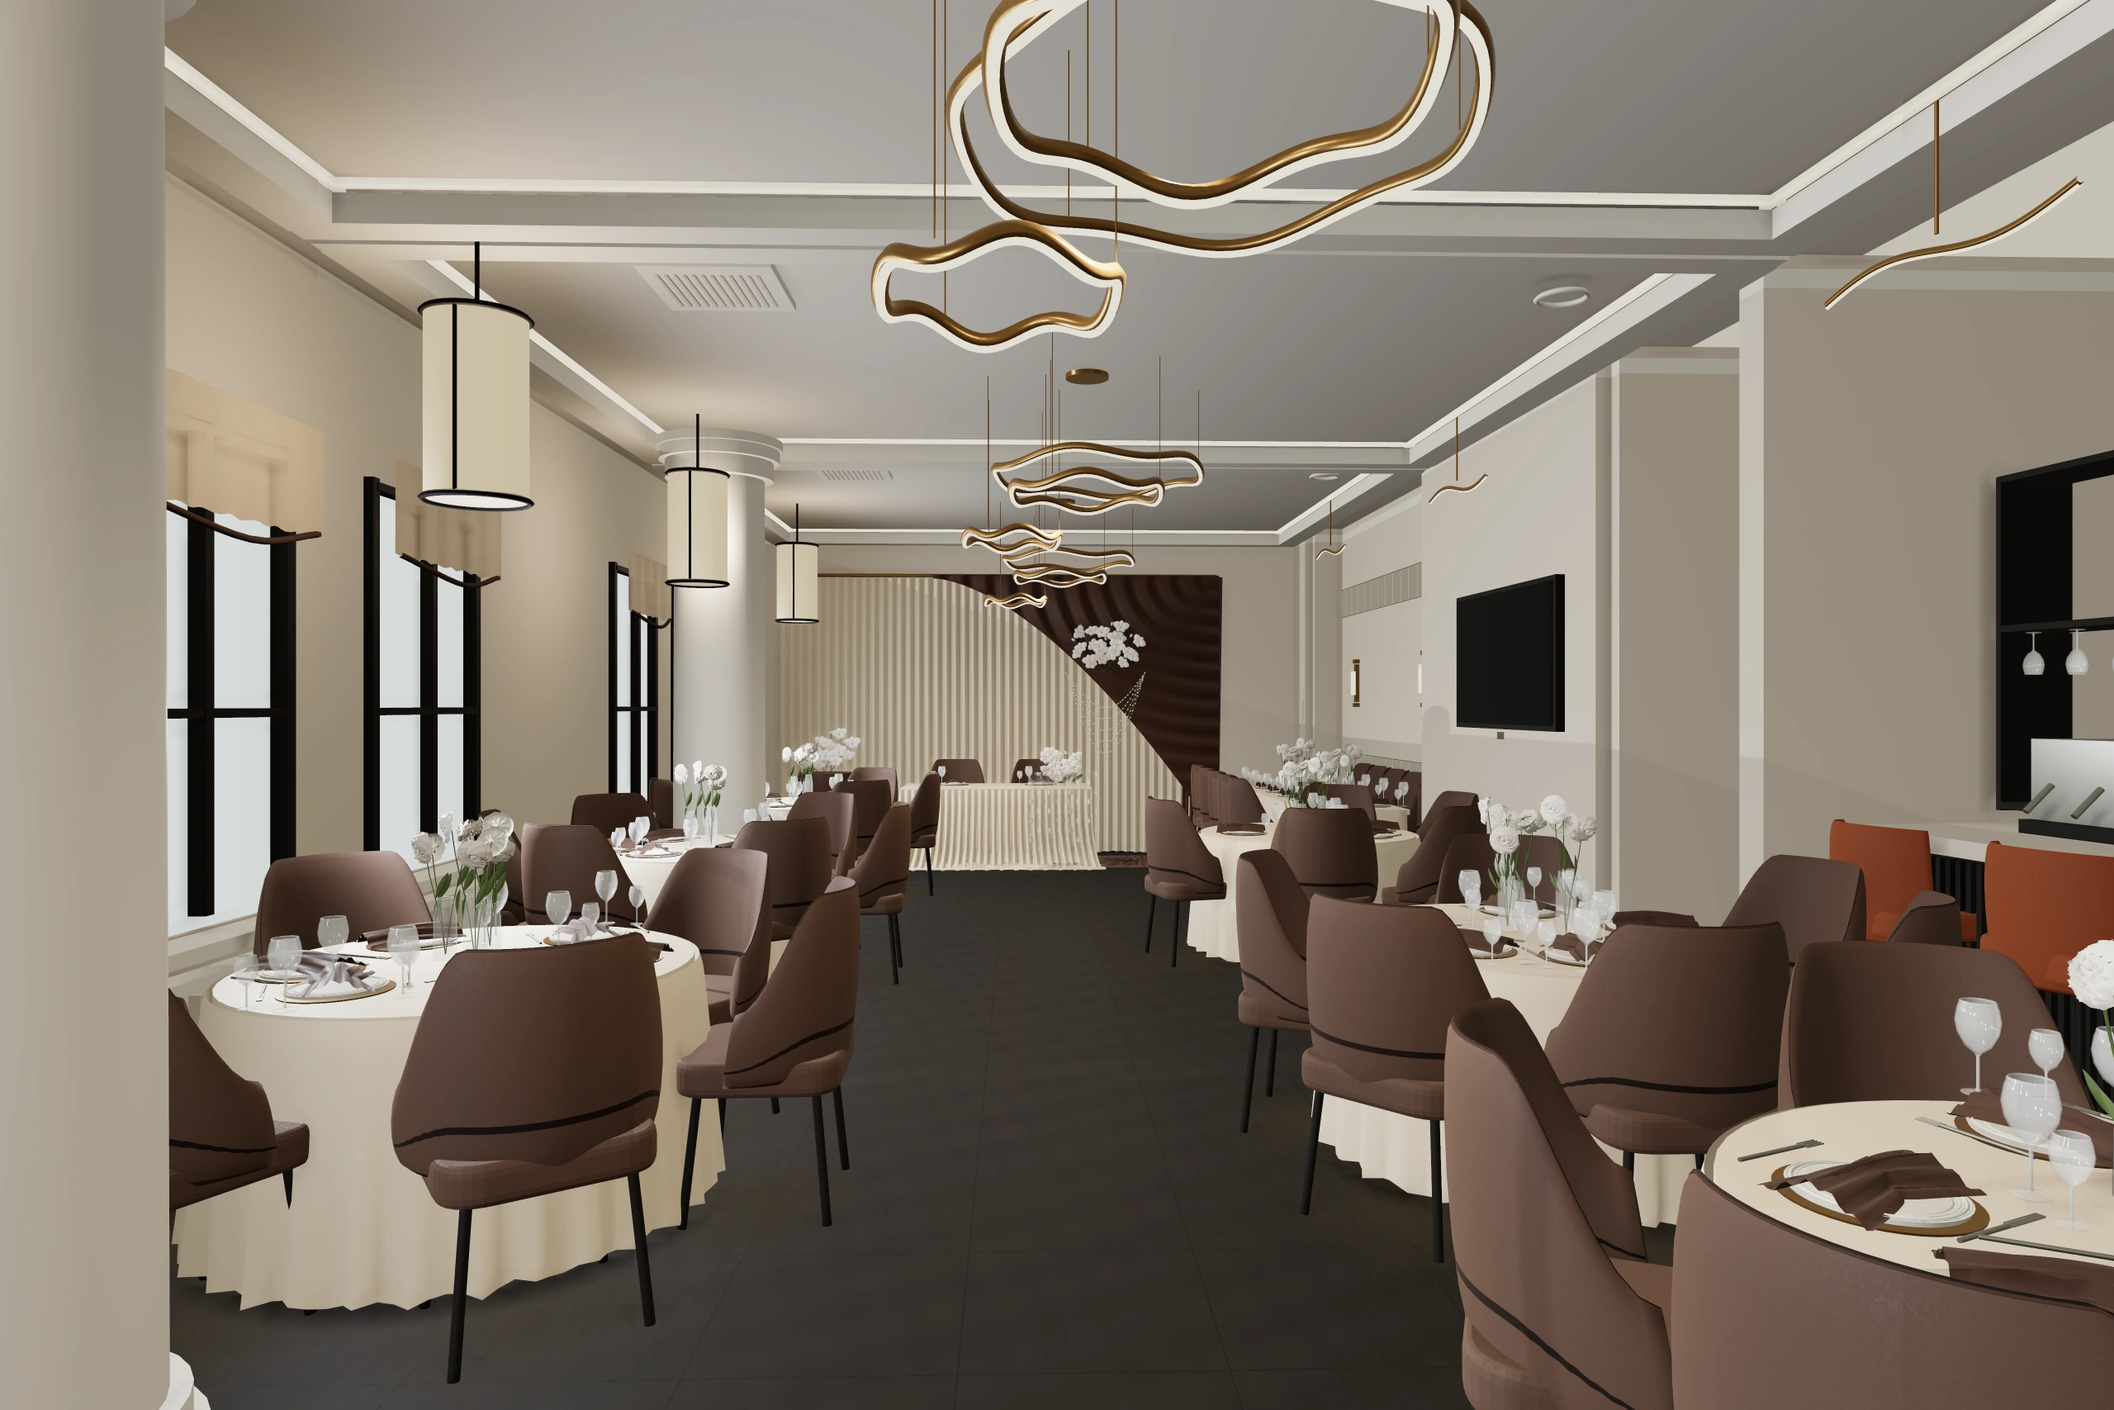
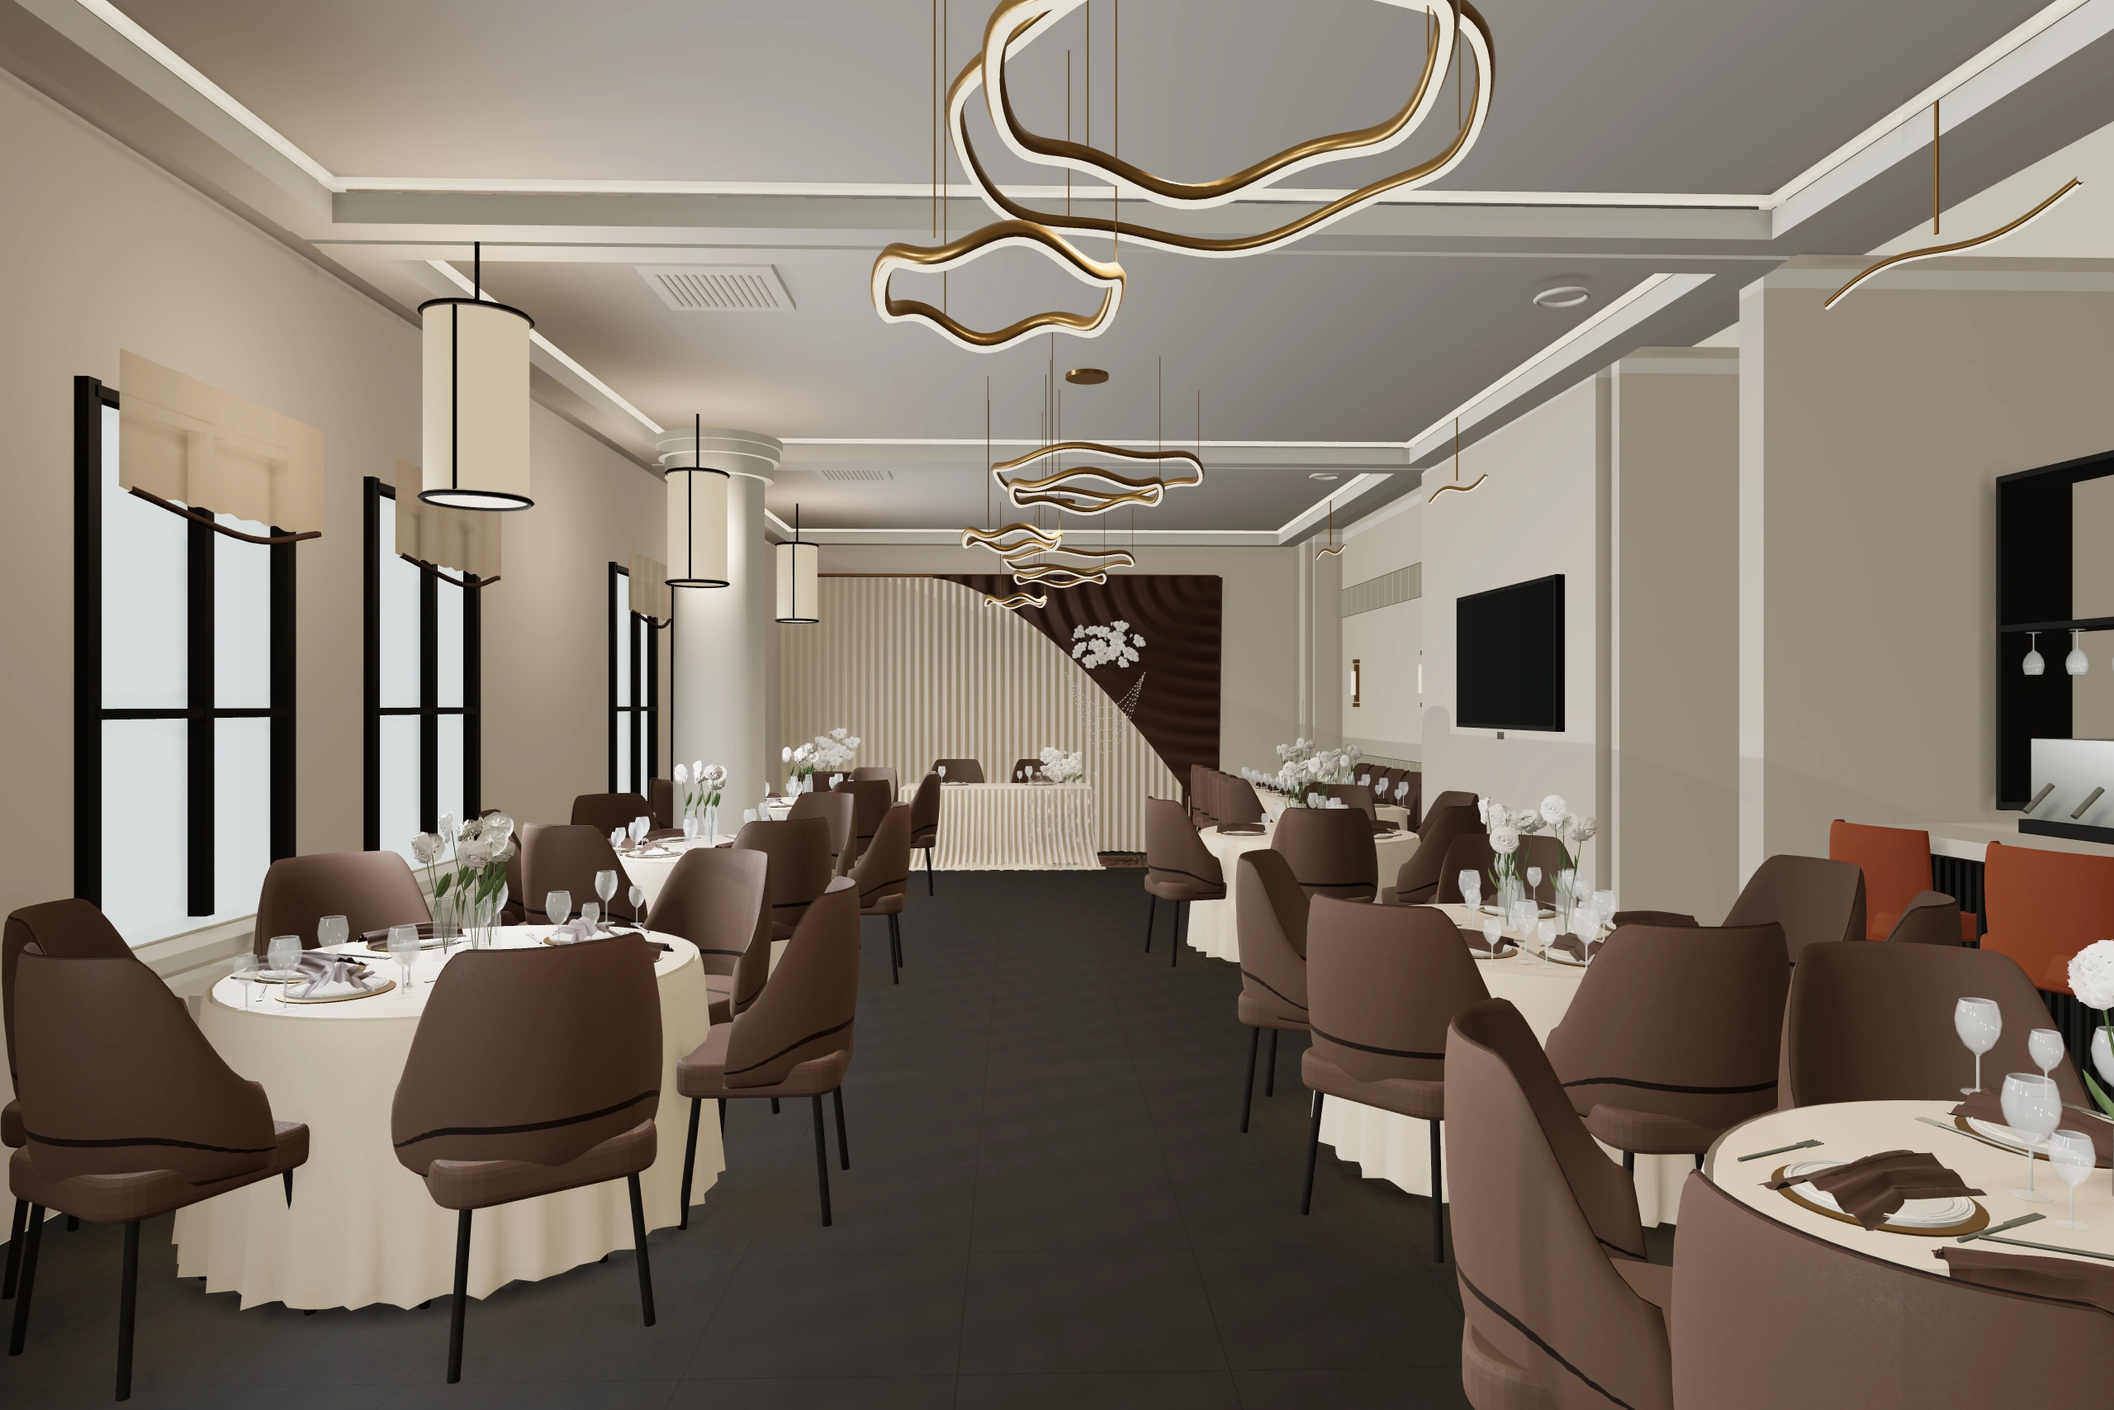
Remove the near window-side column and its collision and plan marker

Changed region(s): [[0.0, 0.0, 0.125, 1.0]]

diff --git a/index.html b/index.html
@@ -11,7 +11,7 @@
  <title>Ариадна · прогулка по залу</title>
  <link rel="icon" type="image/svg+xml" href="./assets/favicon.svg">
  <link rel="preload" href="./assets/manrope.ttf" as="font" type="font/ttf" crossorigin>
- <link rel="stylesheet" href="./styles.css?v=20261116-4">
+ <link rel="stylesheet" href="./styles.css?v=20261116-5">
 </head>
 <body>
  <a class="skip" href="#view-controls">К управлению залом</a>
@@ -52,7 +52,7 @@
  <dialog id="settings-dialog" aria-labelledby="settings-title"><div class="dialog-head"><h2 id="settings-title">Настройки просмотра</h2><button class="close-dialog icon-button" aria-label="Закрыть">×</button></div><div class="dialog-body settings-body"><label for="lighting">Освещение</label><select id="lighting"><option value="day">Дневной · окна и люстры</option><option value="windows">Только свет из окон</option><option value="lamps">Только люстры</option><option value="evening">Тёплый вечер</option></select><label for="quality">Качество</label><select id="quality"><option value="auto">Автоматически</option><option value="high">Подробно</option><option value="low">Экономно</option></select><label for="speed">Скорость ходьбы <output id="speed-value" for="speed">Обычная</output></label><input id="speed" type="range" min="0.6" max="1.8" step="0.2" value="1"><label for="sensitivity">Чувствительность обзора</label><input id="sensitivity" type="range" min="0.4" max="1.6" step="0.2" value="1"><label class="checkbox-row"><input type="checkbox" id="show-map" checked> Показывать миникарту</label><label class="checkbox-row"><input type="checkbox" id="show-decor" checked> Показывать свадебный декор</label><button id="reset-settings" class="secondary">Сбросить настройки</button></div></dialog>
  <dialog id="references-dialog" class="references-dialog" aria-labelledby="references-title"><div class="dialog-head"><div><h2 id="references-title">Референсы и варианты</h2><p class="small">Фотографии, схема и варианты 3D-модели</p></div><button class="close-dialog icon-button" aria-label="Закрыть">×</button></div><div class="dialog-body"><nav id="reference-tabs" class="reference-tabs" aria-label="Выбрать изображение"><button data-reference="decor" class="selected" aria-pressed="true">Ваш декор</button><button data-reference="rose" aria-pressed="false">Пыльная роза</button><button data-reference="olive" aria-pressed="false">Олива</button><button data-reference="hall" aria-pressed="false">Ваш зал</button><button data-reference="plan" aria-pressed="false">Схема</button><button data-reference="architecture" aria-pressed="false">Интерьер</button><button data-reference="windows" aria-pressed="false">Окна</button><button data-reference="bar" aria-pressed="false">Бар</button><button data-reference="stage" aria-pressed="false">Сцена</button></nav><figure class="reference-figure"><img id="reference-image" src="./assets/reference-decor.jpg" alt="Фотография свадебного президиума с молочной и шоколадной драпировкой"><figcaption id="reference-caption">Ваш референс свадебного оформления.</figcaption></figure><div class="reference-notes"><p>Форма помещения и расстановка мебели взяты из вашей схемы. Архитектура уточнена по фотографиям официального сайта. Высота, размеры и невидимые на снимках участки восстановлены приблизительно. Варианты показывают одну и ту же модель; меняются только цвета.</p><p><a href="https://ariadna63.ru/restaurant/" target="_blank" rel="noopener noreferrer">Сайт ресторана ↗</a><a href="https://2gis.ru/samara/firm/70000001094614105" target="_blank" rel="noopener noreferrer">Адрес в 2ГИС ↗</a></p></div></div></dialog>
  <dialog id="render-dialog" class="render-dialog" aria-labelledby="render-title"><div class="dialog-head"><div><h2 id="render-title">Рендер этого ракурса</h2><p class="small">Мягкие тени, отражения и сглаживание</p></div><button class="close-dialog icon-button" aria-label="Закрыть">×</button></div><div class="dialog-body"><div class="render-options"><label for="render-size">Разрешение<select id="render-size"><option value="1920">1920 пикселей</option><option value="2560" selected>2560 пикселей · 2K</option></select></label><label for="render-samples">Сглаживание<select id="render-samples"><option value="1">Стандартное</option><option value="2" selected>Повышенное · 2×</option></select></label></div><p class="small render-explanation">Кадр рассчитывается по небольшим фрагментам, чтобы экономить память. Повышенное сглаживание сохраняет тонкие края лепестков, ткани и бокалов. Во всех палитрах используется одна геометрия.</p><progress id="render-progress" max="1" value="0" hidden></progress><p id="render-status" class="small" role="status"></p><img id="render-preview" class="render-preview" alt="Готовый рендер выбранного ракурса зала" hidden><div class="render-actions"><button id="render-start" class="primary">Рассчитать рендер</button><button id="render-cancel" class="secondary" hidden>Остановить</button><a id="render-save" class="secondary" hidden download>Сохранить PNG</a><button id="capture-quick" class="secondary">Быстрый снимок</button></div></div></dialog>
- <script type="module" src="./app.js?v=20261116-4"></script>
+ <script type="module" src="./app.js?v=20261116-5"></script>
  <script nomodule>document.getElementById('failure').hidden=false;document.getElementById('welcome').hidden=true;</script>
 </body>
 </html>

diff --git a/app.js b/app.js
@@ -1,4 +1,4 @@
-import {boundary,tables,columns,longTable,headTable,views,SEATS,canStand} from './layout.js?v=20261116-4';
+import {boundary,tables,columns,longTable,headTable,views,SEATS,canStand} from './layout.js?v=20261116-5';
 
 const $=id=>document.getElementById(id),canvas=$('scene');
 const coarse=matchMedia('(pointer:coarse)').matches,reduced=matchMedia('(prefers-reduced-motion:reduce)').matches;
@@ -50,7 +50,7 @@ const references={
  olive:['preview-olive.webp','Та же 3D-модель: оливковые ткани и шоколадные акценты','Олива и шоколад. Кадр из модели: меняются только цвета, геометрия и декор совпадают с исходным вариантом.'],
 };
 function selectReference(name){
- const [file,alt,caption]=references[name];$('reference-image').src='./assets/'+file+'?v=20261116-4';$('reference-image').alt=alt;$('reference-caption').textContent=caption;
+ const [file,alt,caption]=references[name];$('reference-image').src='./assets/'+file+'?v=20261116-5';$('reference-image').alt=alt;$('reference-caption').textContent=caption;
  for(const b of document.querySelectorAll('[data-reference]')){const active=b.dataset.reference===name;b.classList.toggle('selected',active);b.setAttribute('aria-pressed',String(active));}
 }
 for(const button of document.querySelectorAll('[data-reference]'))button.addEventListener('click',()=>selectReference(button.dataset.reference));
@@ -276,7 +276,7 @@ function frame(time){
 
 async function boot(){
  try{
-  const module=await import('./scene.js?v=20261116-4');THREE=module.THREE;
+  const module=await import('./scene.js?v=20261116-5');THREE=module.THREE;
   renderer=new THREE.WebGLRenderer({canvas,antialias:!coarse,alpha:false,powerPreference:'high-performance',preserveDrawingBuffer:true});
   renderer.debug.onShaderError=(gl,program,vertex,fragment)=>{const report={program:gl.getProgramInfoLog(program),vertex:gl.getShaderInfoLog(vertex),fragment:gl.getShaderInfoLog(fragment)};console.error(JSON.stringify(report));throw new Error('Графический процессор не смог подготовить рендер');};
   renderer.outputColorSpace=THREE.SRGBColorSpace;renderer.toneMapping=THREE.ACESFilmicToneMapping;renderer.toneMappingExposure=1.12;
@@ -284,7 +284,7 @@ async function boot(){
   camera=new THREE.PerspectiveCamera(60,1,.045,70);planCamera=new THREE.OrthographicCamera(-10,10,6,-6,.1,80);planCamera.up.set(0,0,-1);planCamera.position.set(8.37,30,5);planCamera.lookAt(8.37,0,5);
   $('load-status').textContent='Расставляем мебель и свадебный декор';await new Promise(resolve=>requestAnimationFrame(resolve));
   $('load-status').textContent='Загружаем материалы тканей и камня';hall=await module.createHall(renderer);ready=true;setView('entrance');applyStyle(preferences.style,false);hall.setLighting(preferences.lighting);hall.setDecor(preferences.decor);updateQuality();
-  const graphics=await import('./render-still.js?v=20261116-4');renderStill=graphics.renderStill;presentation=graphics.createPresentation(renderer,hall.scene,camera);updateQuality();
+  const graphics=await import('./render-still.js?v=20261116-5');renderStill=graphics.renderStill;presentation=graphics.createPresentation(renderer,hall.scene,camera);updateQuality();
   renderer.shadowMap.needsUpdate=true;presentation.render(camera);drawMap();
   $('start-button').disabled=false;$('start-label').textContent='Войти в зал';$('load-status').textContent=coarse?'Управление касанием':'Управление мышью и клавиатурой';
   window.addEventListener('resize',resize);new ResizeObserver(resize).observe($('app'));

diff --git a/scene.js b/scene.js
@@ -1,8 +1,8 @@
 import * as THREE from './vendor/three.module.min.js';
 import {Reflector} from './vendor/Reflector.js';
-import {addMusicStage} from './venue-details.js?v=20261116-4';
-import {upholsteredShell,shellSeam,cushion,petal,leafGeometry,foldedNapkin,pooledFabric,gatheredTableFront,suspendedSwag} from './detail-geometry.js?v=20261116-4';
-import {boundary,HEIGHT,tables,columns,longTable,headTable,SEATS} from './layout.js?v=20261116-4';
+import {addMusicStage} from './venue-details.js?v=20261116-5';
+import {upholsteredShell,shellSeam,cushion,petal,leafGeometry,foldedNapkin,pooledFabric,gatheredTableFront,suspendedSwag} from './detail-geometry.js?v=20261116-5';
+import {boundary,HEIGHT,tables,columns,longTable,headTable,SEATS} from './layout.js?v=20261116-5';
 
 export const palettes={
  reference:{name:'По фотографии',cloth:'#eadbc2',napkin:'#4b3024',backdrop:'#eee0c8',drape:'#4c2d1e',pink:'#f2e9df',green:'#e7e6d8'},

diff --git a/layout.js b/layout.js
@@ -19,7 +19,7 @@ export const tables = [
 ];
 function point(px,py) { const [x,z] = planPoint(px,py); return {x,z}; }
 function chairPoints(points) { return points.map(([x,z])=>point(x,z)); }
-export const columns = [point(289,510),point(578,510)];
+export const columns = [point(289,510)];
 export const longTable = {x:2.62,z:4.4,width:2.64,depth:.82,seats:10};
 export const headTable = {x:1.02,z:7.24,width:.82,depth:1.86,seats:2};
 export const SEATS = tables.reduce((n,t)=>n+t.seats,0)+longTable.seats+headTable.seats;

diff --git a/RESEARCH.md b/RESEARCH.md
@@ -67,4 +67,6 @@
 
 После повторной сверки стены у бара удалены ошибочно продлённые зеркальные полосы и бра: они перекрывали открытые проходы. Зеркальный декор оставлен только на стене ниши длинного гостевого стола, как на фотографии `banketnyj-zal.jpg`.
 
+По уточнению пользователя удалена ближняя к бару колонна у окон в точке (10,90; 9,00), включая её препятствие и обозначение на плане. В модели оставлена одна колонна в точке (5,12; 9,00).
+
 Освещение уточнено: шесть широких источников находятся у реальных оконных проёмов, четыре направлены вниз от групп кольцевых люстр, ещё пять совпадают с цилиндрическими подвесами. Удалён посторонний направленный источник перед президиумом. Уменьшена интенсивность прямого солнца, а экспозиция одинакова во всех режимах. В режиме «Только окна» искусственные источники выключены; в режиме «Только люстры» выключены солнце и свет окон. Рассеянное отражённое освещение остаётся приближённым, без трассировки лучей.
